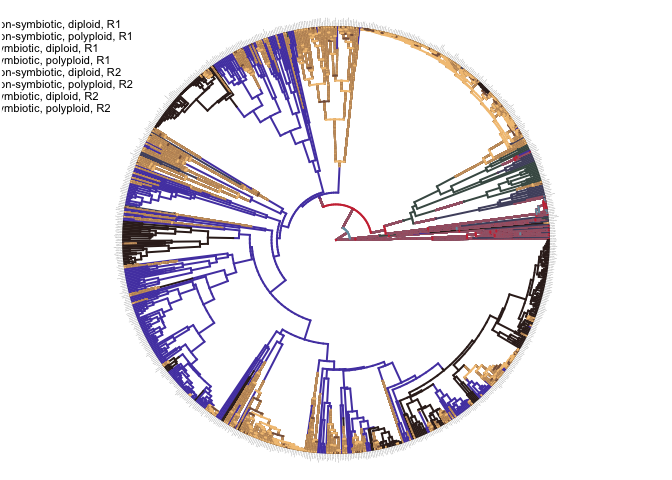
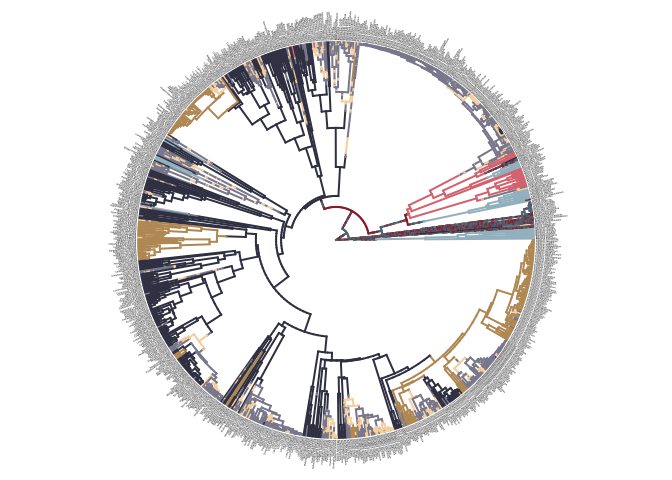
Updating markdown

Changed region(s): [[0.1562, 0.0312, 0.8438, 0.9688], [0.0, 0.0312, 0.1875, 0.25]]

diff --git a/State_transitions_analysis.md b/State_transitions_analysis.md
@@ -93,7 +93,7 @@ nonmutualist diploid 2 = nonmutualist polyploid 3 = mutualist diploid 4
 
 ``` r
 # Set seed for reproducibility 
-set.seed(35)
+set.seed(135)
 
 # Simple model with two traits and no hidden states 
 MK_sub_simple<- corHMM(phy=sub_tree, data=ploidy_sub2, rate.cat=1)
@@ -113,14 +113,14 @@ MK_sub_simple
     ## 
     ## Fit
     ##       -lnL      AIC     AICc Rate.cat ntax
-    ##  -448.2159 912.4318 912.6037        1  847
+    ##  -448.2159 912.4317 912.6036        1  847
     ## 
     ## Rates
-    ##             (1,R1)      (2,R1)      (3,R1)      (4,R1)
-    ## (1,R1)          NA 0.018962815 0.005080092          NA
-    ## (2,R1) 0.034427771          NA          NA 0.004534031
-    ## (3,R1) 0.002371503          NA          NA 0.023961636
-    ## (4,R1)          NA 0.000000001 0.077895873          NA
+    ##            (1,R1)      (2,R1)      (3,R1)     (4,R1)
+    ## (1,R1)         NA 0.018961657 0.005083292         NA
+    ## (2,R1) 0.03442228          NA          NA 0.00453052
+    ## (3,R1) 0.00237122          NA          NA 0.02394291
+    ## (4,R1)         NA 0.000000001 0.077781660         NA
     ## 
     ## Arrived at a reliable solution
 
@@ -160,28 +160,28 @@ MK_sub_hidden
 
     ## 
     ## Fit
-    ##       -lnL     AIC     AICc Rate.cat ntax
-    ##  -392.9535 821.907 822.7331        2  847
+    ##       -lnL      AIC     AICc Rate.cat ntax
+    ##  -396.2791 828.5581 829.3842        2  847
     ## 
     ## Rates
     ##             (1,R1)      (2,R1)      (3,R1)      (4,R1)      (1,R2)      (2,R2)
-    ## (1,R1)          NA 1.524948697 0.000000001          NA 0.016044246          NA
-    ## (2,R1) 7.151505985          NA          NA 0.000000001          NA 0.016044246
-    ## (3,R1) 0.000000001          NA          NA 0.005544238          NA          NA
-    ## (4,R1)          NA 0.000000001 0.022551333          NA          NA          NA
-    ## (1,R2) 0.020499301          NA          NA          NA          NA 0.016143298
-    ## (2,R2)          NA 0.020499301          NA          NA 0.004726804          NA
-    ## (3,R2)          NA          NA 0.020499301          NA 0.005612824          NA
-    ## (4,R2)          NA          NA          NA 0.020499301          NA 0.000000001
-    ##              (3,R2)       (4,R2)
-    ## (1,R1)           NA           NA
-    ## (2,R1)           NA           NA
-    ## (3,R1)   0.01604425           NA
-    ## (4,R1)           NA  0.016044246
-    ## (1,R2)   0.01727692           NA
-    ## (2,R2)           NA  0.007173617
-    ## (3,R2)           NA 16.958903239
-    ## (4,R2) 100.00000000           NA
+    ## (1,R1)          NA 2.023730181 0.010365276          NA 0.017173855          NA
+    ## (2,R1) 4.175013514          NA          NA 0.000000001          NA 0.017173855
+    ## (3,R1) 0.000000001          NA          NA 0.002727148          NA          NA
+    ## (4,R1)          NA 0.000000001 0.004255697          NA          NA          NA
+    ## (1,R2) 0.008523471          NA          NA          NA          NA 0.000000001
+    ## (2,R2)          NA 0.008523471          NA          NA 0.004496358          NA
+    ## (3,R2)          NA          NA 0.008523471          NA 0.006251182          NA
+    ## (4,R2)          NA          NA          NA 0.008523471          NA 0.002143506
+    ##              (3,R2)      (4,R2)
+    ## (1,R1)           NA          NA
+    ## (2,R1)           NA          NA
+    ## (3,R1) 0.0171738551          NA
+    ## (4,R1)           NA 0.017173855
+    ## (1,R2) 0.0004479304          NA
+    ## (2,R2)           NA 0.007846165
+    ## (3,R2)           NA 0.222786191
+    ## (4,R2) 0.6760569677          NA
     ## 
     ## Arrived at a reliable solution
 
@@ -204,11 +204,11 @@ rate_dataR2<-round(rate_dataR2, 5) # Round values
 rate_dataR2<-t(rate_dataR2) # Transpose matrix 
 
 # Manipulate matrix for arrow line width plotting 
-R1_thick<-rate_dataR1/10 
-R2_thick<-rate_dataR2/10
+R1_thick<-1+rate_dataR1 
+R2_thick<-1+rate_dataR2
 
 # Set up plot save 
-pdf("Figure_R1.pdf")
+# pdf("Figure_R1.pdf")
 
 # Make the plot 
 R1_plot<-plotmat(rate_dataR1, pos=c(1,2,1),
@@ -216,16 +216,15 @@ R1_plot<-plotmat(rate_dataR1, pos=c(1,2,1),
               box.lwd = 1.5, cex.txt = 0.75, curve=0.04, box.col=c("white", "white", "lightgrey", "lightgrey"), shadow.size=0, arr.lwd=R1_thick, arr.type="triangle", 
               box.size = 0.1, box.type = "square", box.prop = 0.5,
               main = "Rate Category 1")
-
-dev.off()
 ```
 
-    ## quartz_off_screen 
-    ##                 2
+![](State_transitions_analysis_files/figure-gfm/hidden%20model-1.png)<!-- -->
 
 ``` r
+# dev.off()
+
 # Set up plot save 
-pdf("Figure_R2.pdf")
+# pdf("Figure_R2.pdf")
 
 R2_plot<-plotmat(rate_dataR2, pos=c(1,2,1),
               name = c(" non-symbiotic \ndiploid", " non-symbiotic \npolyploid", " symbiotic \ndiploid",  " symbiotic \npolyploid"),
@@ -233,13 +232,10 @@ R2_plot<-plotmat(rate_dataR2, pos=c(1,2,1),
               box.size = 0.1, box.type = "square", box.prop = 0.5,
               main = "Rate Category 2")
 
-dev.off()
+# dev.off()
 ```
 
-    ## quartz_off_screen 
-    ##                 2
-
-![](State_transitions_analysis_files/figure-gfm/hidden%20model-1.png)<!-- -->
+![](State_transitions_analysis_files/figure-gfm/hidden%20model-2.png)<!-- -->
 
 ## Visualization of transitions
 
@@ -290,32 +286,32 @@ model_sub_hidden[is.na(model_sub_hidden)] <- 0
 diag(model_sub_hidden) <- -rowSums(model_sub_hidden)
 
 # Set up plot save 
-pdf("Figure_transition_tree.pdf")
+# pdf("Figure_transition_tree.pdf")
 
 # Run to get simmap 
 simmap_sub_hidden <- makeSimmap(tree = phy_sub_hidden, data = data_sub_hidden, model = model_sub_hidden, rate.cat = 2)
 
 # Import phytools plotSimmap for plotting
 phytools::plotSimmap(simmap_sub_hidden[[1]], colors=state_colours8, fsize = 0.15, offset=3, type="fan")
-
-dev.off()
 ```
 
-    ## quartz_off_screen 
-    ##                 2
+![](State_transitions_analysis_files/figure-gfm/plot-1.png)<!-- -->
 
 ``` r
+# dev.off()
+
 # Set up plot save 
-pdf("Figure_transition_legend.pdf")
+# pdf("Figure_transition_legend.pdf")
 
 phytools::plotSimmap(simmap_sub_hidden[[1]], colors=state_colours8, fsize = 0.01, offset=3, type="fan")
 phytools::add.simmap.legend(colors=legend_colours, fsize=0.7, prompt=FALSE, x=-120, y=70, vertical=TRUE)
-
-dev.off()
 ```
 
-    ## quartz_off_screen 
-    ##                 2
+![](State_transitions_analysis_files/figure-gfm/plot-2.png)<!-- -->
+
+``` r
+# dev.off()
+```
 
 Split up the figure into multiple panels with different colours. One
 panel that just shows the rate classes, one panel that just shows the 4
@@ -328,37 +324,37 @@ state_colours_rate<-setNames(c("black", "black", "black", "black", "grey", "grey
                          c("1", "2", "3", "4", "5", "6", "7", "8")) 
 
 # Set up plot save 
-pdf("Figure_transition_rates.pdf")
+# pdf("Figure_transition_rates.pdf")
 
 # Run to get simmap 
 simmap_sub_hidden_R <- makeSimmap(tree = phy_sub_hidden, data = data_sub_hidden, model = model_sub_hidden, rate.cat = 2)
 
 # Import phytools plotSimmap for plotting
 phytools::plotSimmap(simmap_sub_hidden_R[[1]], colors=state_colours_rate, fsize = 0.15, offset=3, type="fan")
-
-dev.off()
 ```
 
-    ## quartz_off_screen 
-    ##                 2
+![](State_transitions_analysis_files/figure-gfm/unnamed-chunk-1-1.png)<!-- -->
 
 ``` r
+# dev.off()
+
+
 # Legend for the two rate classes 
 # Set up plot save 
-pdf("Figure_transition_rates_legend.pdf")
+# pdf("Figure_transition_rates_legend.pdf")
 
 phytools::plotSimmap(simmap_sub_hidden[[1]], colors=state_colours_rate, fsize = 0.01, offset=3, type="fan")
 phytools::add.simmap.legend(colors=legend_colours, fsize=0.7, prompt=FALSE, x=-120, y=70, vertical=TRUE)
-
-dev.off()
 ```
 
-    ## quartz_off_screen 
-    ##                 2
+![](State_transitions_analysis_files/figure-gfm/unnamed-chunk-1-2.png)<!-- -->
 
 ``` r
+# dev.off()
+
+
 # Set up plot save 
-pdf("Figure_transition_4.pdf")
+# pdf("Figure_transition_4.pdf")
 
 # Now the tree with the four classes 
 state_colours4<-setNames(c("#5A7A87", "#9F2732", "#3E3E54", "#BD9865", "#5A7A87", "#9F2732", "#3E3E54", "#BD9865"),
@@ -369,9 +365,10 @@ simmap_sub_hidden_4 <- makeSimmap(tree = phy_sub_hidden, data = data_sub_hidden,
 
 # Import phytools plotSimmap for plotting
 phytools::plotSimmap(simmap_sub_hidden_4[[1]], colors=state_colours4, fsize = 0.15, offset=3, type="fan")
-
-dev.off()
 ```
 
-    ## quartz_off_screen 
-    ##                 2
+![](State_transitions_analysis_files/figure-gfm/unnamed-chunk-1-3.png)<!-- -->
+
+``` r
+# dev.off()
+```
